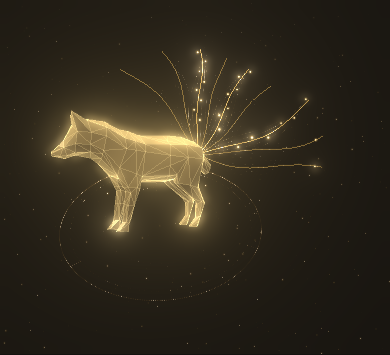
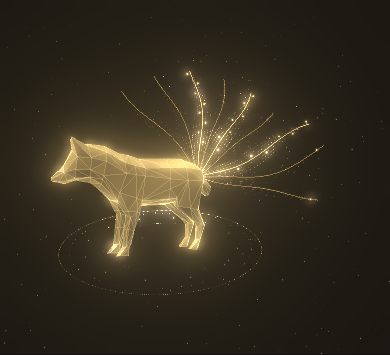
Thicker nine tails with sparks, flat dial pedestal, regenerate still posters

diff --git a/src/scene/foxfire.ts b/src/scene/foxfire.ts
@@ -20,7 +20,7 @@ const clamp = (v: number, a = 0, b = 1) => Math.min(b, Math.max(a, v));
 const smooth = (a: number, b: number, v: number) => { const t = clamp((v - a) / (b - a)); return t * t * (3 - 2 * t); };
 const ease = (t: number) => 1 - Math.pow(1 - t, 3);
 const GOLD = new Color('#d9ae55'), BRASS = new Color('#c4954a'), STEEL = new Color('#9db2bc'), FIRE = new Color('#f0c872');
-const SAMPLES = 110, STRANDS = 5, FLY_MS = 800;
+const SAMPLES = 150, STRANDS = 7, SPARKS = 36, FLY_MS = 800;
 
 const POINT_VS = /* glsl */ `
   uniform float uK; uniform float uTime; uniform float uPx;
@@ -193,9 +193,14 @@ export function mount(host: HTMLElement, opts: { still?: boolean } = {}) {
   const tPosA = attr(tGeo, 'position', tPos, 3); attr(tGeo, 'aSize', tSize); const tLitA = attr(tGeo, 'aLit', tLit); attr(tGeo, 'aSeed', tSeed); attr(tGeo, 'aHover', new Float32Array(tN));
   TAILS.forEach((t, k) => { for (let s = 0; s < STRANDS; s++) for (let i = 0; i < SAMPLES; i++) {
     const n = (k * STRANDS + s) * SAMPLES + i, u = i / (SAMPLES - 1);
-    tSize[n] = (s === 2 ? (t.main ? 0.14 : 0.09) : (t.main ? 0.08 : 0.05)) * (1 - 0.4 * u) + 0.012; tSeed[n] = rnd(n, 2);
+    tSize[n] = (s === 3 ? (t.main ? 0.17 : 0.11) : (t.main ? 0.1 : 0.065)) * (1 - 0.4 * u) + 0.012; tSeed[n] = rnd(n, 2);
   } });
   const tMat = mat(POINT_VS, GOLD); const tPoints = new Points(tGeo, tMat); tPoints.frustumCulled = false; root.add(tPoints);
+  // sparks lifting off the tails
+  const spN = TAILS.length * SPARKS, spGeo = new BufferGeometry(); const spPos = new Float32Array(spN * 3), spLit = new Float32Array(spN);
+  const spPosA = attr(spGeo, 'position', spPos, 3); attr(spGeo, 'aSize', Float32Array.from({ length: spN }, (_, i) => 0.04 + rnd(i, 11) * 0.07)); const spLitA = attr(spGeo, 'aLit', spLit);
+  attr(spGeo, 'aSeed', Float32Array.from({ length: spN }, (_, i) => rnd(i, 12))); attr(spGeo, 'aHover', new Float32Array(spN));
+  const spMat = mat(POINT_VS, FIRE); const sparks = new Points(spGeo, spMat); sparks.frustumCulled = false; root.add(sparks);
   const spine = TAILS.map((t) => {
     const g = new BufferGeometry(); g.setAttribute('position', new BufferAttribute(new Float32Array(48 * 3), 3));
     const l = new Line(g, new LineBasicMaterial({ color: GOLD, transparent: true, opacity: t.main ? 0.7 : 0.3, blending: AdditiveBlending, depthWrite: false }));
@@ -247,7 +252,7 @@ export function mount(host: HTMLElement, opts: { still?: boolean } = {}) {
   const orbPosNow: Vector3[] = orbs.map(() => new Vector3());
   const tmp = new Vector3(), world = new Vector3();
   const tailU = Array.from({ length: SAMPLES }, (_, i) => i / (SAMPLES - 1));
-  const matList = [ tMat, oMat, eMat, dialMat];
+  const matList = [spMat,  tMat, oMat, eMat, dialMat];
 
   function resize() {
     const r = host.getBoundingClientRect();
@@ -351,7 +356,7 @@ export function mount(host: HTMLElement, opts: { still?: boolean } = {}) {
     // tails: three strands round a spine, a pulse running to the tip
     TAILS.forEach((tl, k) => {
       const p = clamp((I * 1.4 - k * 0.07) / 0.55), sp = spine[k].geometry.getAttribute('position') as BufferAttribute;
-      const mult = tl.main ? 1.15 : 0.55;
+      const mult = tl.main ? 1.3 : 0.7;
       for (let i = 0; i < 48; i++) { const q = tailPoint(tl, i / 47, st.sway[k], t, baseNow); sp.setXYZ(i, q[0], q[1], q[2]); }
       sp.needsUpdate = true; spine[k].geometry.setDrawRange(0, Math.max(0, Math.floor(48 * p)));
       for (let i = 0; i < SAMPLES; i++) {
@@ -361,12 +366,22 @@ export function mount(host: HTMLElement, opts: { still?: boolean } = {}) {
         const pulse = 0.55 + 0.45 * Math.pow(0.5 + 0.5 * Math.sin(u * 15 - t * 3.2 + tl.phase), 3);
         const lit = smooth(u - 0.02, u, p) * mult * pulse * (1 - 0.3 * u);
         for (let s = 0; s < STRANDS; s++) {
-          const n = (k * STRANDS + s) * SAMPLES + i, o = ((s - 2) / 2) * wd;
-          tPos[n * 3] = q[0] + nx * o; tPos[n * 3 + 1] = q[1] + ny * o; tPos[n * 3 + 2] = q[2]; tLit[n] = lit * (s === 2 ? 1 : 0.5);
+          const n = (k * STRANDS + s) * SAMPLES + i, o = ((s - 3) / 3) * wd;
+          tPos[n * 3] = q[0] + nx * o; tPos[n * 3 + 1] = q[1] + ny * o; tPos[n * 3 + 2] = q[2]; tLit[n] = lit * (s === 3 ? 1 : 0.55);
         }
       }
     });
     tPosA.needsUpdate = true; tLitA.needsUpdate = true;
+    TAILS.forEach((tl, k) => {
+      const p = clamp((I * 1.4 - k * 0.07) / 0.55);
+      for (let j = 0; j < SPARKS; j++) {
+        const n = k * SPARKS + j, sd = rnd(n, 21), life = (sd + t * (0.07 + rnd(n, 22) * 0.08)) % 1, u = 0.15 + 0.85 * ((sd * 7.3) % 1) * Math.min(1, life * 1.6);
+        const q = tailPoint(tl, Math.min(1, u), st.sway[k], t, baseNow), rise = life * life * (1.2 + rnd(n, 23));
+        spPos[n * 3] = q[0] + (rnd(n, 24) - 0.5) * 0.5 * life; spPos[n * 3 + 1] = q[1] + rise; spPos[n * 3 + 2] = q[2];
+        spLit[n] = smooth(0, 0.1, life) * smooth(1, 0.55, life) * (tl.main ? 1.1 : 0.55) * smooth(u - 0.05, u, p);
+      }
+    });
+    spPosA.needsUpdate = true; spLitA.needsUpdate = true;
 
     // flames
     const hoveredOrb = st.hover >= 0 ? orbs[st.hover] : null;

diff --git a/src/lib/foxsky.ts b/src/lib/foxsky.ts
@@ -15,7 +15,7 @@ export const BASE: V3 = [2.1, 0.3, -0.6];
 export const FOX = { scale: 0.056, yaw: -1.0, x: -1.3, y: -2.0, z: 0 };
 export const FOV = 40;
 /** The brass dial under the fox: 12 signs, a flat ring that the scene tilts towards the viewer and turns. */
-export const DIAL = { cx: -0.95, cy: -1.8, r: 3.9, tilt: 0.95 };
+export const DIAL = { cx: -0.95, cy: -1.8, r: 3.9, tilt: 1.3 };
 
 
 export type Tail = { body: Body; slot: number; theta: number; len: number; curl: number; depth: number; phase: number; main: boolean };
@@ -44,7 +44,7 @@ export const tailOf = (b: Body) => TAILS.find((t) => t.body === b)!;
 export function tailPoint(t: Tail, u: number, sway = 0, time = 0, base: V3 = BASE): V3 {
   const dx = Math.cos(t.theta), dy = Math.sin(t.theta), nx = -dy, ny = dx;
   const k = 0.2 + 0.1 * t.curl;
-  const wave = 0.07 * t.len * u * Math.sin(5.2 * u - time * 1.5 + t.phase);
+  const wave = 0.07 * t.len * u * Math.sin(5.2 * u - time * 0.75 + t.phase);
   const side = k * t.len * u * u + wave + sway * u * u * 0.8;
   return [base[0] + dx * t.len * u + nx * side, base[1] + dy * t.len * u + ny * side, base[2] + t.depth * u];
 }
